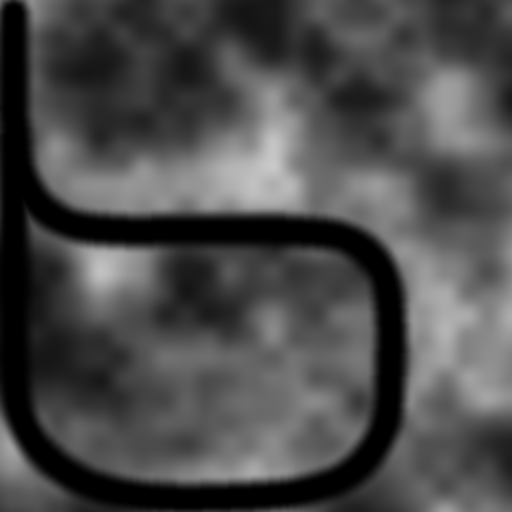
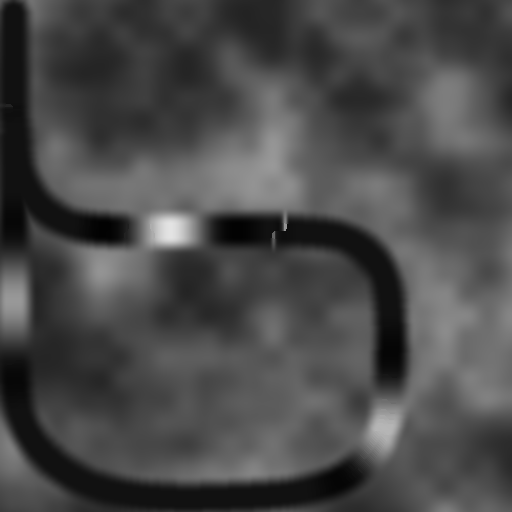
<Game> AquaDash P11追補: ベイク地形の回廊を路面追従にして埋まりを根本解決
実プレイ報告(アンダーシュート区間で路面・プレイヤーが地面に潜る)への対応。
- ベイク回廊の高さを y=0 固定から「最寄り路面 y - 0.7m」追従へ(チャンファー距離場に
  最寄りコース点の路面 y を同乗伝播。ループ等の多重通過は最小 y を採用)
- 負の高さは terrain.heightOffset(地形エンティティの Y、Stage01=-3m)で表現し
  heightScale を 34 へ。StageData/CreateStageWorld に heightOffset を追加
- 雪スプラットをコース近傍で抑制(丘越え路肩の灰色帯対策)
- 報告と同区間・停止状態で路面の視認を実機確認、フル走行クリアまで副作用なし。
  既知の課題「丘前後の路面埋まり」を解消

diff --git a/DirectX/Game/Tools/bake_stage_terrain.py b/DirectX/Game/Tools/bake_stage_terrain.py
@@ -12,7 +12,9 @@
   - 地形原点 / terrainSize は CreateStageWorld (AquaDashStates.cpp) と同一式:
       コース XZ AABB (スプラインを弧長 10m 刻みでサンプリング、min/max は 0 初期化)
       + マージン 60m、terrainSize = max(extentX, extentZ)。
-  - コース回廊 (中心線 ±FLAT_RADIUS) は R=0 の完全平坦にして走行系と整合させる。
+  - コース回廊 (中心線 ±FLAT_RADIUS) は「最寄り路面 y - CORRIDOR_DROP」へ追従させる。
+    Catmull-Rom のアンダーシュートで路面が y<0 に沈む区間でも地形が一緒に下がるので
+    路面が地面へ埋まらない。負の高さは terrain.heightOffset (地形エンティティの Y) で表現する。
 
 使い方:
   python bake_stage_terrain.py ../Assets/Stages/Stage01.stage.json
@@ -30,16 +32,23 @@ import zlib
 IMAGE_SIZE    = 512     # heightmap / splatmap とも 512x512
 MARGIN        = 60.0    # CreateStageWorld と同じ地形マージン [m]
 SAMPLE_STEP   = 10.0    # CreateStageWorld と同じ AABB サンプリング間隔 [m]
-FLAT_RADIUS   = 35.0    # コース回廊 (完全平坦) の半幅 [m]
+FLAT_RADIUS   = 35.0    # コース回廊 (路面追従) の半幅 [m]
 RAMP_LENGTH   = 80.0    # 回廊端から丘への立ち上がり距離 [m]
-HEIGHT_SCALE  = 22.0    # 丘の最大高さ [m] (.stage.json の terrain.heightScale と一致させる)
+# 回廊の地形は「最寄りの路面 y - CORRIDOR_DROP」に追従する。スプラインのアンダーシュート
+# (y<0 の沈み) でも路面が地形に埋まらないよう、負の高さは HEIGHT_OFFSET で表現する。
+# HEIGHT_OFFSET / HEIGHT_SCALE は .stage.json の terrain.heightOffset / heightScale と一致させること。
+CORRIDOR_DROP = 0.70    # 路面 (スプライン y) から地形面までの下げ幅 [m]
+                        # (急勾配区間はバイリニア平滑で地形が路面へ寄るため余裕を持たせる)
+HEIGHT_OFFSET = -3.0    # 地形エンティティの Y オフセット [m] (R=0 がこの高さになる)
+HEIGHT_SCALE  = 34.0    # R=255 のときの高さ [m] (offset 起点。丘の最大 HILL_HEIGHT を包含)
+HILL_HEIGHT   = 22.0    # 丘の最大高さ [m] (ワールド絶対値)
 NOISE_CELL    = 420.0   # 丘のうねりの基本波長 [m] (小さくすると砂嵐状になる)
 HILL_EXPONENT = 1.6     # ノイズの累乗 (>1 で谷を広く・峰を尖らせる)
 BLUR_RADIUS   = 2       # 8bit バンディング抑制のガウスぼかし半径 [px]
 ROCK_SLOPE_LO = 0.10    # 岩が混ざり始める勾配 (dh/dx)
 ROCK_SLOPE_HI = 0.32    # 岩が支配的になる勾配
-SNOW_H_LO     = 0.55    # 雪が現れ始める正規化高さ
-SNOW_H_HI     = 0.80    # 雪が支配的になる正規化高さ
+SNOW_M_LO     = 12.0    # 雪が現れ始めるワールド高さ [m]
+SNOW_M_HI     = 18.0    # 雪が支配的になるワールド高さ [m]
 SEED          = 1234
 
 
@@ -133,38 +142,44 @@ def smoothstep(lo, hi, v):
 # ---------------------------------------------------------------- 距離場 / ぼかし
 
 def chamfer_distance(seeds, size):
-    """コース画素からの近似距離 [px] (2 パス チャンファー法。斜め=1.4)。"""
+    """コース画素からの近似距離 [px] と、最寄りコース点の路面 y [m] を返す
+    (2 パス チャンファー法。斜め=1.4。y は距離更新と一緒に伝播させる)。"""
     inf = 1.0e9
     dist = [inf] * (size * size)
-    for (px, pz) in seeds:
+    road = [0.0] * (size * size)
+    for (px, pz), y in seeds.items():
         dist[pz * size + px] = 0.0
+        road[pz * size + px] = y
+
+    def relax(i, j, add):
+        d = dist[j] + add
+        if d < dist[i]:
+            dist[i] = d
+            road[i] = road[j]
+
     for z in range(size):
         for x in range(size):
             i = z * size + x
-            d = dist[i]
             if x > 0:
-                d = min(d, dist[i - 1] + 1.0)
+                relax(i, i - 1, 1.0)
             if z > 0:
-                d = min(d, dist[i - size] + 1.0)
+                relax(i, i - size, 1.0)
                 if x > 0:
-                    d = min(d, dist[i - size - 1] + 1.4)
+                    relax(i, i - size - 1, 1.4)
                 if x < size - 1:
-                    d = min(d, dist[i - size + 1] + 1.4)
-            dist[i] = d
+                    relax(i, i - size + 1, 1.4)
     for z in range(size - 1, -1, -1):
         for x in range(size - 1, -1, -1):
             i = z * size + x
-            d = dist[i]
             if x < size - 1:
-                d = min(d, dist[i + 1] + 1.0)
+                relax(i, i + 1, 1.0)
             if z < size - 1:
-                d = min(d, dist[i + size] + 1.0)
+                relax(i, i + size, 1.0)
                 if x < size - 1:
-                    d = min(d, dist[i + size + 1] + 1.4)
+                    relax(i, i + size + 1, 1.4)
                 if x > 0:
-                    d = min(d, dist[i + size - 1] + 1.4)
-            dist[i] = d
-    return dist
+                    relax(i, i + size - 1, 1.4)
+    return dist, road
 
 
 def gaussian_blur(values, size, radius):
@@ -246,36 +261,53 @@ def main():
     print(f"{stage_id}: total={total:.1f}m origin=({origin_x:.1f},{origin_z:.1f}) size={terrain_size:.1f}m "
           f"({1.0 / px_per_m:.2f} m/px)")
 
-    # コース中心線を 1m 刻みで画素へ落とし、距離場を作る。
-    seeds = set()
+    # コース中心線を 1m 刻みで画素へ落とし、距離場と「最寄り路面 y」を作る。
+    # ループなど同一画素を複数回通る場合は最小 y を採用する (地面はループの根本に合わせる)。
+    seeds = {}
     d = 0.0
     while d <= total:
         p = evaluate_at(positions, lengths, d)
         px = round((p[0] - origin_x) * px_per_m)
         pz = round((p[2] - origin_z) * px_per_m)
         if 0 <= px < IMAGE_SIZE and 0 <= pz < IMAGE_SIZE:
-            seeds.add((px, pz))
+            key = (px, pz)
+            seeds[key] = min(seeds.get(key, 1.0e9), p[1])
         d += 1.0
-    dist_px = chamfer_distance(sorted(seeds), IMAGE_SIZE)
+    dist_px, road_y = chamfer_distance(seeds, IMAGE_SIZE)
 
-    # 高さ: 回廊は 0、外側は smoothstep 立ち上げ x バリューノイズの丘。
+    # 高さ [m・ワールド絶対値]:
+    #   回廊 = 最寄り路面 y - CORRIDOR_DROP (スプラインの沈み・丘・ループ根本に追従)
+    #   外側 = smoothstep で丘 (バリューノイズ) へブレンド
+    def corridor_y(i):
+        return road_y[i] - CORRIDOR_DROP
+
     height = [0.0] * (IMAGE_SIZE * IMAGE_SIZE)
     for z in range(IMAGE_SIZE):
         wz = origin_z + z / px_per_m
         for x in range(IMAGE_SIZE):
-            d_m = dist_px[z * IMAGE_SIZE + x] / px_per_m
+            i = z * IMAGE_SIZE + x
+            d_m = dist_px[i] / px_per_m
             ramp = smoothstep(FLAT_RADIUS, FLAT_RADIUS + RAMP_LENGTH, d_m)
+            base = corridor_y(i)
             if ramp <= 0.0:
+                height[i] = base
                 continue
             wx = origin_x + x / px_per_m
             n = fbm(wx / NOISE_CELL, wz / NOISE_CELL)
-            height[z * IMAGE_SIZE + x] = ramp * (n ** HILL_EXPONENT)
+            hill = HILL_HEIGHT * (n ** HILL_EXPONENT)
+            height[i] = base + (hill - base) * ramp
 
     height = gaussian_blur(height, IMAGE_SIZE, BLUR_RADIUS)
-    # ぼかしで回廊へ滲んだ分を切り戻す (立ち上がりが 0 始まりなので段差は出ない)。
+    # ぼかしで回廊へ滲んだ分を正確な路面追従値へ戻す (路面の視認性を最優先)。
     for i in range(IMAGE_SIZE * IMAGE_SIZE):
         if dist_px[i] / px_per_m < FLAT_RADIUS:
-            height[i] = 0.0
+            height[i] = corridor_y(i)
+
+    lo = min(height)
+    hi = max(height)
+    if lo < HEIGHT_OFFSET or hi > HEIGHT_OFFSET + HEIGHT_SCALE:
+        print(f"WARNING: height range [{lo:.2f}, {hi:.2f}] exceeds "
+              f"[{HEIGHT_OFFSET}, {HEIGHT_OFFSET + HEIGHT_SCALE}] and will be clamped")
 
     # スプラット: 平地=草 (低周波ノイズで岩を少し混ぜる)、斜面=岩、高所=雪。
     m_per_px = 1.0 / px_per_m
@@ -287,16 +319,16 @@ def main():
         wz = origin_z + z * m_per_px
         for x in range(IMAGE_SIZE):
             i = z * IMAGE_SIZE + x
-            h = height[i]
-            hv = min(255, max(0, round(h * 255.0)))
+            h = height[i]   # ワールド高さ [m]
+            hv = min(255, max(0, round((h - HEIGHT_OFFSET) / HEIGHT_SCALE * 255.0)))
             hrow += bytes((hv, hv, hv))
 
             xl = height[i - 1] if x > 0 else h
             xr = height[i + 1] if x < IMAGE_SIZE - 1 else h
             zu = height[i - IMAGE_SIZE] if z > 0 else h
             zd = height[i + IMAGE_SIZE] if z < IMAGE_SIZE - 1 else h
-            slope = math.hypot((xr - xl) * HEIGHT_SCALE / (2.0 * m_per_px),
-                               (zd - zu) * HEIGHT_SCALE / (2.0 * m_per_px))
+            slope = math.hypot((xr - xl) / (2.0 * m_per_px),
+                               (zd - zu) / (2.0 * m_per_px))
             wx = origin_x + x * m_per_px
             # 勾配ベースの岩は、コース縁の立ち上がり帯では出さず (均一な帯になって不自然)、
             # ランプの外の丘斜面だけに、ノイズでまだらに割って乗せる。
@@ -304,8 +336,12 @@ def main():
             ring_fade = smoothstep(FLAT_RADIUS + RAMP_LENGTH, FLAT_RADIUS + RAMP_LENGTH + 60.0, d_m)
             patchy = 0.35 + 0.65 * fbm(wx / 150.0, wz / 150.0, 2)
             rock = smoothstep(ROCK_SLOPE_LO, ROCK_SLOPE_HI, slope) * patchy * ring_fade
-            snow = smoothstep(SNOW_H_LO, SNOW_H_HI, h) * (1.0 - 0.6 * rock)
-            if h < 0.05:
+            # 雪は丘 (回廊の外) 限定。回廊が路面追従で高所になる区間 (丘越えの路肩) に
+            # 雪が出ると灰色の帯に見えるため、コース近傍では抑制する。
+            hill_only = smoothstep(FLAT_RADIUS + RAMP_LENGTH * 0.5,
+                                   FLAT_RADIUS + RAMP_LENGTH, d_m)
+            snow = smoothstep(SNOW_M_LO, SNOW_M_HI, h) * (1.0 - 0.6 * rock) * hill_only
+            if slope < 0.08 and rock < 0.05:
                 rock = max(rock, 0.15 * fbm(wx / 47.0, wz / 47.0, 2))
             grass = max(0.0, 1.0 - rock - snow)
             srow += bytes((min(255, round(grass * 255.0)),

diff --git a/DirectX/Game/Application/Flow/AquaDashStates.cpp b/DirectX/Game/Application/Flow/AquaDashStates.cpp
@@ -177,7 +177,9 @@ namespace app
 					auto entity = ctx.CreateEntity<
 						aq::ecs::TransformComponent, aq::ecs::HierarchicalTransformComponent, aq::ecs::TerrainComponent>();
 					auto* tc = entity.GetComponent<aq::ecs::TransformComponent>();
-					tc->position.Set(minX - MARGIN, 0.0f, minZ - MARGIN);
+					// Y はステージ指定のオフセット (R=0 の高さ)。ベイク済みハイトマップは
+					// 路面の沈み (スプラインの y<0) を offset 起点の正値で表現している。
+					tc->position.Set(minX - MARGIN, stageData->terrainHeightOffset, minZ - MARGIN);
 					auto* terrain = entity.GetComponent<aq::ecs::TerrainComponent>();
 					terrain->SetDesc(desc);
 					terrain->GetChunk()->SetReceiveShadow(true);

diff --git a/DirectX/Game/Application/Stage/StageData.h b/DirectX/Game/Application/Stage/StageData.h
@@ -91,8 +91,9 @@ namespace app
 			/** 地形の見た目 (省略可。パスが空 / heightScale 0 なら従来どおりの平坦 grass) */
 			std::string terrainHeightmapPath;
 			std::string terrainSplatmapPath;
-			float       terrainHeightScale = 0.0f;
-			uint32_t    terrainResolution  = 128;
+			float       terrainHeightScale  = 0.0f;
+			float       terrainHeightOffset = 0.0f;   // 地形エンティティの Y (R=0 の高さ)
+			uint32_t    terrainResolution   = 128;
 
 			/** 評価 */
 			std::vector<CoinPlacement> coins;

diff --git a/DirectX/Game/Application/Stage/StageData.cpp b/DirectX/Game/Application/Stage/StageData.cpp
@@ -209,6 +209,7 @@ namespace app
 				data->terrainHeightmapPath = terrain["heightmap"].AsString();
 				data->terrainSplatmapPath  = terrain["splatmap"].AsString();
 				data->terrainHeightScale   = terrain["heightScale"].AsFloat(0.0f);
+				data->terrainHeightOffset  = terrain["heightOffset"].AsFloat(0.0f);
 				data->terrainResolution    = static_cast<uint32_t>(terrain["resolution"].AsInt(128));
 			}
 

diff --git a/DirectX/Game/Design/AquaDash/README.md b/DirectX/Game/Design/AquaDash/README.md
@@ -76,11 +76,8 @@ Game/
   **180fps(5.56ms)には未達** — 残り約 7.5ms は地形/キャラ/ディファード/シャドウ/UI 等の
   ベースコストで、コース密度由来のボトルネックは解消済み。以降はポストプロセスチェーン化など
   一般最適化の領域。
-- 丘の前後で路面タイルが見えない区間がある: 制御点 y=0 の隣に丘頂点(y=18〜28)を置いた
-  Catmull-Rom のアンダーシュートでスプラインが最大約 2m 沈み、タイル(上面 = スプライン +0.05m)が
-  平坦地形(y=0)に埋まるため。P7 以前からの既存現象(P8 の実機確認で顕在化を確認)。
-  対策案: 丘の前後に y=0 の制御点を追加してアンダーシュートを抑える、またはタイルを地形より浮かせる。
-  (P9 設計時の机上検証: ショルダー制御点を足しても沈みは -0.26m 程度までしか抑えられず、
-   タイル上面 +0.05m では埋まりが残る。完全解決には地形を下げるかスプラインの接線制御が必要 → 保留)
+- (P11 追補で解決)丘の前後で路面が地形に埋まる問題(Catmull-Rom アンダーシュートで
+  スプラインが最大約 2m 沈む)は、ベイク地形の回廊を「最寄り路面 y − 0.7m」追従にして解消。
+  負の高さは `.stage.json` の `terrain.heightOffset`(地形エンティティの Y)で表現する。
 - 残刃用オフスクリーンパスは停止済み(未使用+シーン二重描画のコスト。Application::OnPreRender 冒頭 return)。
 - (解決済) エンジンの `Quaternion::SetRotation` 代入バグは修正し、ゲーム側の回避実装も削除した。

diff --git a/DirectX/Game/Design/AquaDash/05_実装フェーズ計画.md b/DirectX/Game/Design/AquaDash/05_実装フェーズ計画.md
@@ -233,3 +233,17 @@
    しきい値を下げて再ベイクするだけで調整可
 - [x] フレームレートの悪化が軽微(開始地点 126〜134fps。P10 の 132.7fps とほぼ同等。
    リザルト 311fps)
+
+#### P11 追補(2026-09-07): 路面の地面埋まりを根本解決
+
+ユーザー実プレイで「地面の中に埋まる」報告(丘 17 後のアンダーシュート区間で停止すると
+路面・プレイヤーが平坦地形より下に潜る)。ベイク方式を変更して解決した:
+
+- **回廊の地形高さを y=0 固定 → 「最寄り路面 y − 0.7m」追従へ**。チャンファー距離場の
+  伝播に最寄りコース点の路面 y を同乗させ、沈み・丘・ループ根本すべてに地形が追従する
+  (ループ等の同一 XZ 多重通過は最小 y を採用)。負の高さは新設の `terrain.heightOffset`
+  (地形エンティティの Y、Stage01 は -3m)で表現し、`heightScale` は 34 に拡大。
+- 併せて微調整: 雪スプラットをコース近傍で抑制(丘越え路肩が灰色帯になるため)、
+  下げ幅 0.7m(急勾配区間のバイリニア平滑による食い込み対策)。
+- 実機確認: 報告と同区間・停止状態で路面が完全に見えること、丘 17 越え・ループ 2 周辺・
+  フル走行クリアまで副作用なし。**既知の課題「丘前後の路面埋まり」はこれで解消**。

diff --git a/DirectX/Game/Design/AquaDash/03_ステージデータ仕様.md b/DirectX/Game/Design/AquaDash/03_ステージデータ仕様.md
@@ -78,15 +78,19 @@ Game/Assets/Stages/
 
 ```json
 "terrain": {
-	"heightmap":   "Assets/Terrain/Stage01_heightmap.png",
-	"splatmap":    "Assets/Terrain/Stage01_splatmap.png",
-	"heightScale": 22.0,
-	"resolution":  256
+	"heightmap":    "Assets/Terrain/Stage01_heightmap.png",
+	"splatmap":     "Assets/Terrain/Stage01_splatmap.png",
+	"heightScale":  34.0,
+	"heightOffset": -3.0,
+	"resolution":   256
 }
 ```
 
-- `heightmap` は R チャンネル 8bit(高さ = R/255 × heightScale)。**コース回廊は R=0** にして
-  スプライン走行(y=0 基準)と整合させる。
+- `heightmap` は R チャンネル 8bit(高さ = heightOffset + R/255 × heightScale)。
+  `heightOffset` は地形エンティティの Y になる(省略時 0)。
+- **コース回廊は「最寄り路面 y − 0.7m」に追従**させてベイクする。Catmull-Rom の
+  アンダーシュートでスプラインが y<0 に沈む区間でも地形が一緒に下がり、路面が
+  地面へ埋まらない(負の高さは heightOffset で表現)。丘・ループ根本でも同様に追従する。
 - `splatmap` は R=grass / G=snow / B=rock の混合比(エンジン側で正規化)。
 - 画像は `Game/Tools/bake_stage_terrain.py` で .stage.json から生成する(座標対応・
   回廊幅などの定義はスクリプト側が一次資料)。地形の原点/terrainSize の計算は
